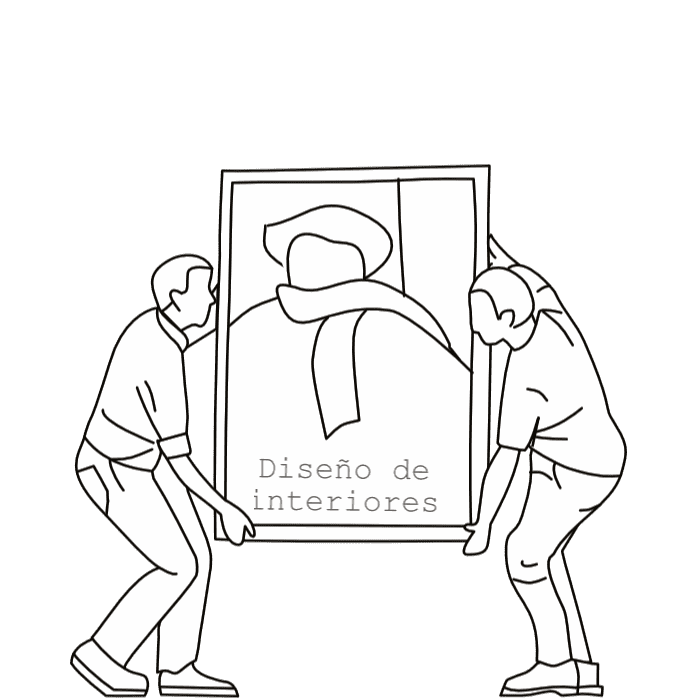
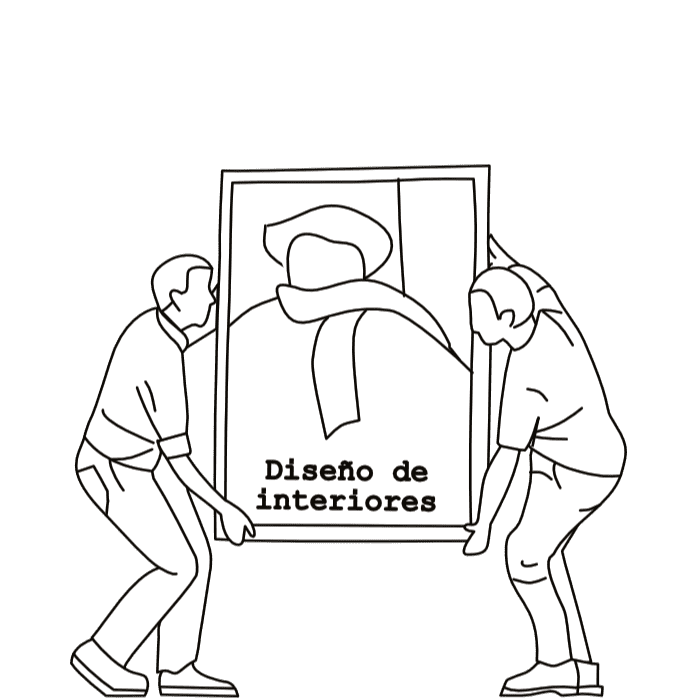
Sofá más lento y pausa más corta; letrero del cuadro: fotogramas originales y el fijo un tono más marcado
Claude-Session: https://claude.ai/code/session_01Tckd7FRN1Wj5sD4FJaZp8R

Changed region(s): [[0.36, 0.63, 0.63, 0.75]]

diff --git a/src/App.jsx b/src/App.jsx
@@ -1187,13 +1187,13 @@ export default function App() {
           const sofaRestFrame = 1 // Frame 2.png
           const sofaFirstWalk = 2 // Frame 3.png
           const sofaLastWalk = sofaFrames.length - 1 // Frame 14.png
-          const sofaFps = 6
+          const sofaFps = 4
           const sofaStartLeft = '41.8%'
           const sofaEndLeft = '50%'
           const sofaState = { frame: sofaRestFrame }
           const walkDuration = (sofaLastWalk - sofaFirstWalk + 1) / sofaFps
           const showSofaFrame = () => setAnimatedFrame(sofaImageRef, sofaFrames, sofaState.frame)
-          const sofaPauseDuration = () => getRandomReversePause()
+          const sofaPauseDuration = () => gsap.utils.random(1.2, 2.5, 0.1)
 
           gsap.set(sofaRef.current, {
             xPercent: -50,
